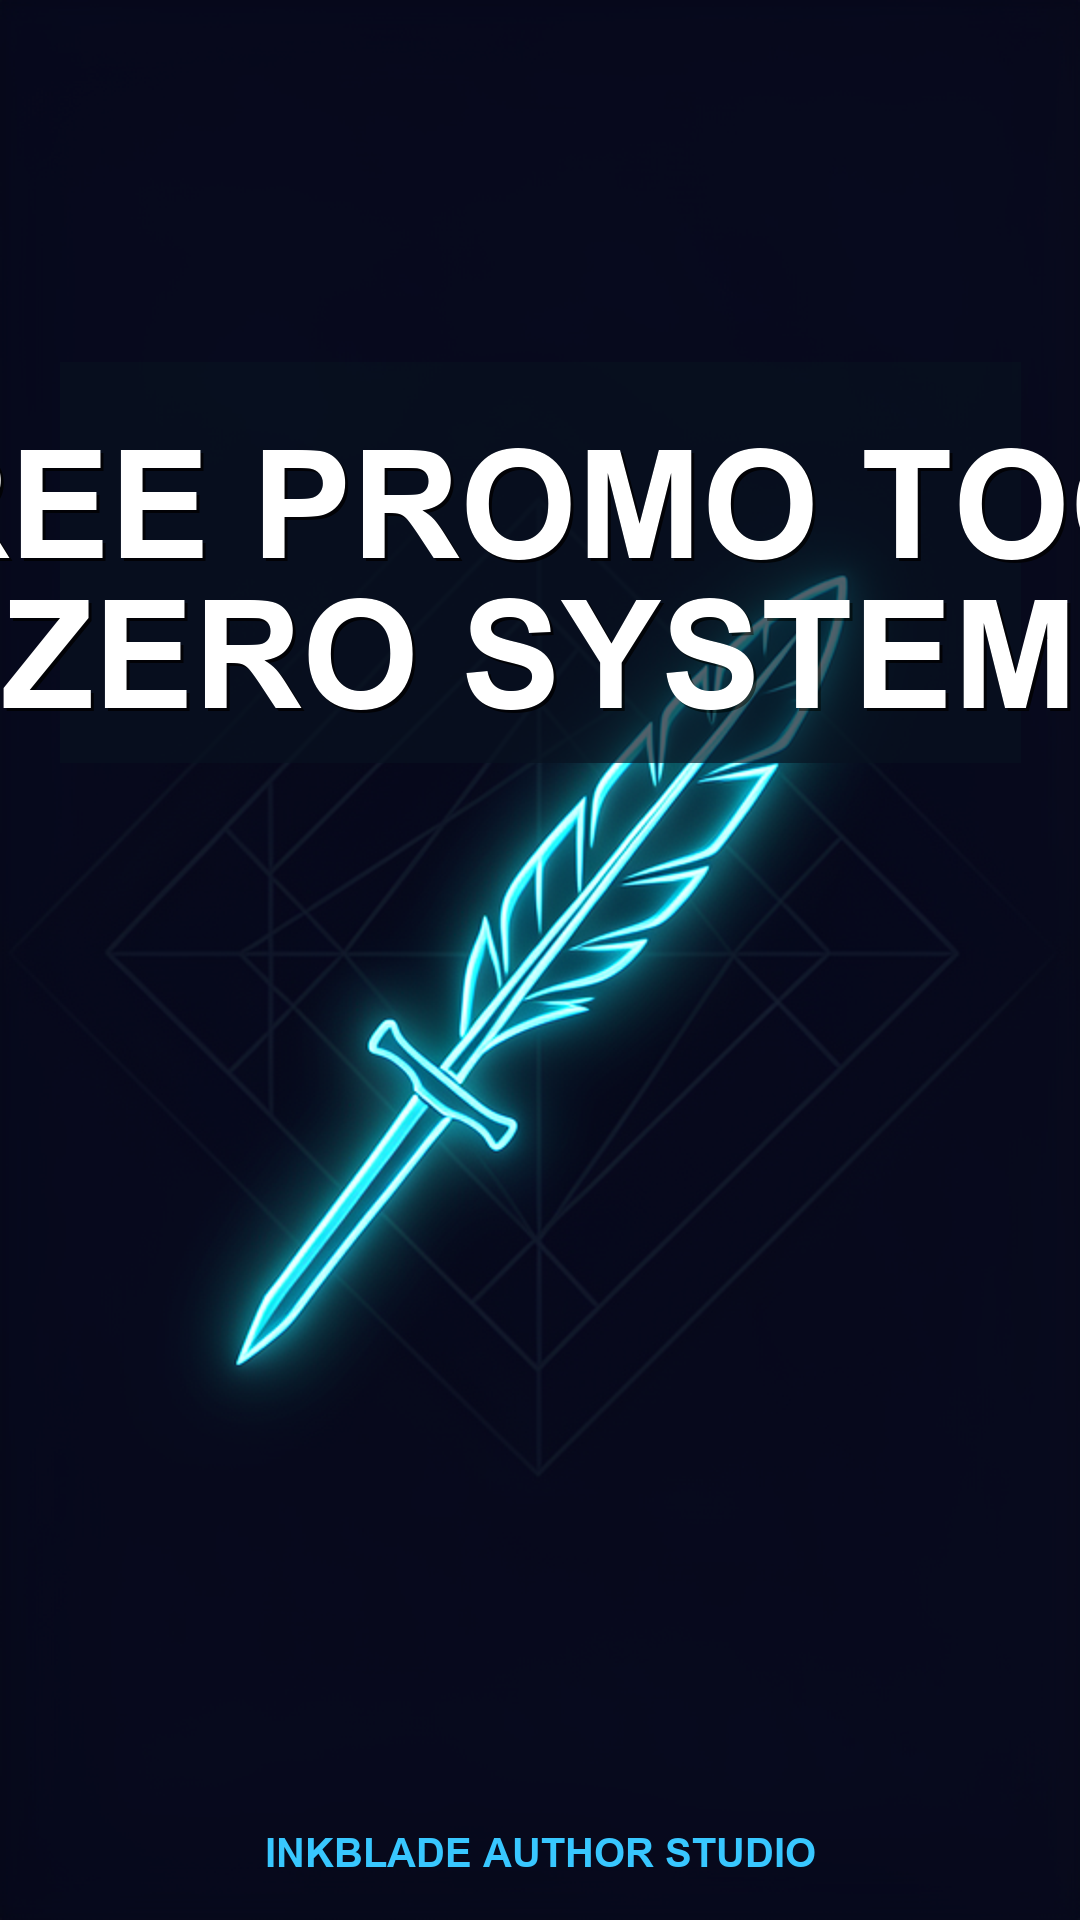
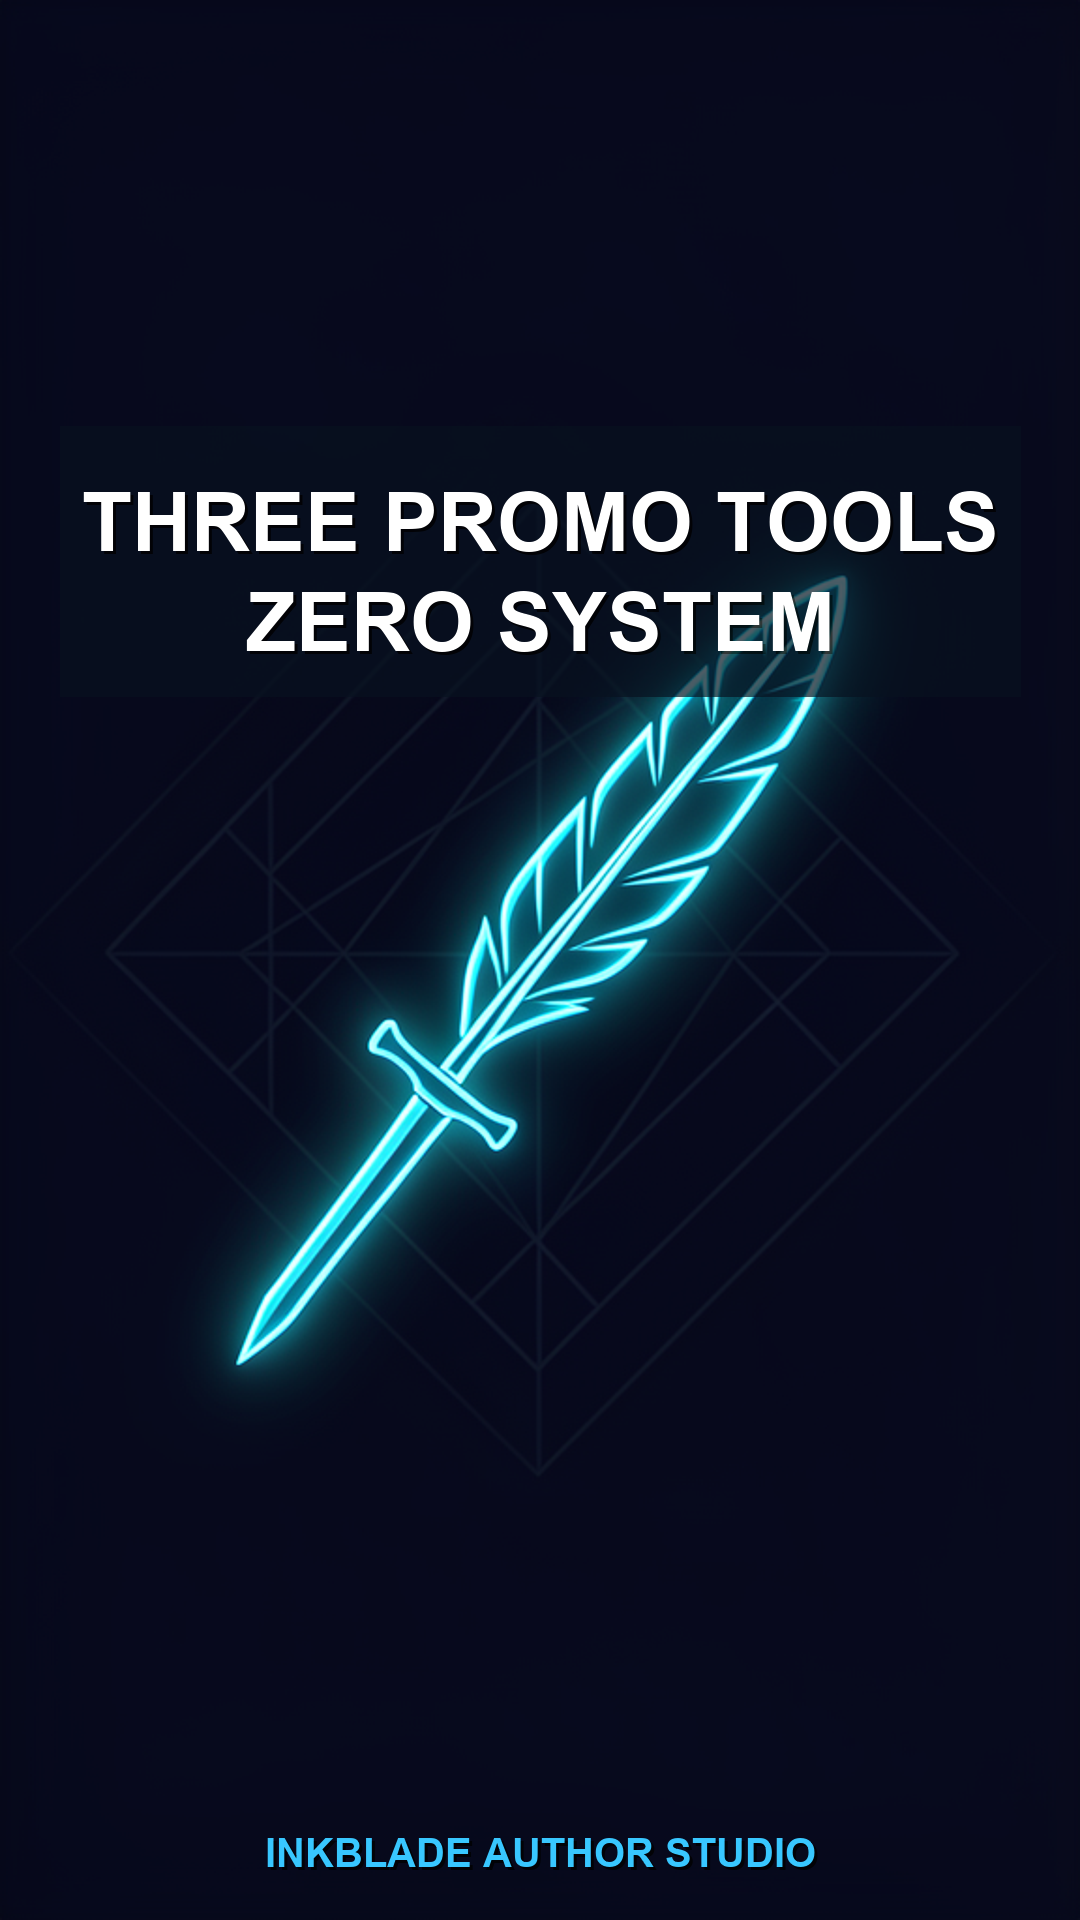
Fix text clipping: hard width-guard in both reel builders (no edge clipping); rebuild 7-20 + assets reels

Changed region(s): [[0.0, 0.2188, 1.0, 0.4062]]

diff --git a/scripts/build_reel_2026-07-20.py b/scripts/build_reel_2026-07-20.py
@@ -1,0 +1,232 @@
+"""Build the 2026-07-20 Inkblade Author Studio reel cover + 12s MP4.
+
+Studio brand only (fantasy AUTHORS). DRAFT-mode asset build, no publishing here.
+Cover: navy + electric-blue sword-quill base with deterministic PIL hook text.
+Reel: Ken Burns zoom + per-beat fade-in captions + edge_tts voiceover (GPU-free).
+"""
+import os
+import subprocess
+import tempfile
+
+from PIL import Image, ImageDraw, ImageFont
+
+BASE = r"C:\Users\David\Documents\Inkblade Author Studio\site\assets\posts\reel-2026-07-20-base.png"
+SITE = r"C:\Users\David\Documents\Inkblade Author Studio\site\assets\posts"
+COVER_PNG = os.path.join(SITE, "reel-2026-07-20.png")
+MP4 = os.path.join(SITE, "reel-2026-07-20.mp4")
+W, H = 1080, 1920
+FPS = 30
+
+NAVY = (7, 17, 31)
+BLUE = (56, 199, 255)
+WHITE = (255, 255, 255)
+
+
+def load_font(size, bold=True):
+    candidates = [
+        r"C:\Windows\Fonts\arialbd.ttf",
+        r"C:\Windows\Fonts\arial.ttf",
+        r"C:\Windows\Fonts\segoeui.ttf",
+    ]
+    for path in candidates:
+        if os.path.exists(path):
+            try:
+                return ImageFont.truetype(path, size)
+            except Exception:
+                continue
+    return ImageFont.load_default()
+
+
+def wrap_text(draw, text, font, max_w):
+    words = text.split()
+    lines, cur = [], ""
+    for w in words:
+        test = (cur + " " + w).strip()
+        if draw.textlength(test, font=font) <= max_w:
+            cur = test
+        else:
+            if cur:
+                lines.append(cur)
+            cur = w
+    if cur:
+        lines.append(cur)
+    return lines
+
+
+def safe_lines(draw, text, size, max_w=W - 120):
+    """Wrap, then shrink font until every line fits max_w. Returns (lines, font)."""
+    font = load_font(size)
+    lines = wrap_text(draw, text, font, max_w)
+    while any(draw.textlength(ln, font=font) > max_w for ln in lines) and size > 24:
+        size -= 4
+        font = load_font(size)
+        lines = wrap_text(draw, text, font, max_w)
+    return lines, font
+
+
+def draw_safe(d, text, cx, y, size, fill, max_w=W - 120, shadow=True):
+    """Draw text centered at cx, wrapped + width-clamped so it NEVER clips."""
+    lines, font = safe_lines(d, text, size, max_w)
+    for ln in lines:
+        w = d.textlength(ln, font=font)
+        x = cx - w / 2
+        if shadow:
+            d.text((x + 3, y + 3), ln, font=font, fill=(0, 0, 0, 200))
+        d.text((x, y), ln, font=font, fill=fill)
+        y += font.size + 12
+    return y
+
+
+def composite_cover(base):
+    img = base.resize((W, H)).convert("RGB")
+    overlay = Image.new("RGBA", (W, H), (0, 0, 0, 0))
+    d = ImageDraw.Draw(overlay)
+    # headline block: render the original 2 lines, each width-guarded, centered as a block
+    lines = ["THREE PROMO TOOLS", "ZERO SYSTEM"]
+    size = 150
+    fnt = load_font(size)
+    # width-guard each line (shrink if needed)
+    guarded = []
+    for ln in lines:
+        while d.textlength(ln, font=fnt) > W - 120 and size > 28:
+            size -= 4
+            fnt = load_font(size)
+        guarded.append(ln)
+    line_h = fnt.size + 18
+    block_h = line_h * len(guarded)
+    # center block in upper-third band (y from 0.14H to 0.55H), clamp inside frame
+    y = max(int(H * 0.16), int(H * 0.30) - block_h // 2)
+    bar_top = y - 50
+    bar_bottom = y + block_h + 20
+    d.rectangle([60, bar_top, W - 60, bar_bottom], fill=(7, 17, 31, 175))
+    yy = y
+    for ln in guarded:
+        w = d.textlength(ln, font=fnt)
+        x = W // 2 - w / 2
+        d.text((x + 3, yy + 3), ln, font=fnt, fill=(0, 0, 0, 200))
+        d.text((x, yy), ln, font=fnt, fill=WHITE)
+        yy += line_h
+    # small brand tag bottom (width-guarded)
+    draw_safe(d, "INKBLADE AUTHOR STUDIO", W // 2, H - 90, 40, BLUE)
+    img = img.convert("RGBA")
+    img = Image.alpha_composite(img, overlay).convert("RGB")
+    return img
+
+
+def kb_zoom(base, t, total):
+    # hook 0-3s: 1.4 -> 1.05 ; beats 3-12s: 1.15 -> 1.7
+    if t < 3.0:
+        z = 1.4 + (1.05 - 1.4) * (t / 3.0)
+    else:
+        p = (t - 3.0) / max(0.001, (total - 3.0))
+        z = 1.15 + (1.7 - 1.15) * min(1.0, p)
+    z = max(1.02, z)
+    zw, zh = int(W / z), int(H / z)
+    left = (W - zw) // 2
+    top = (H - zh) // 2
+    return base.crop((left, top, left + zw, top + zh)).resize((W, H))
+
+
+BEATS = [
+    (0.0, 3.0, ["THREE PROMO TOOLS", "ZERO SYSTEM"], 150, True),
+    (3.0, 6.0, ["You bought the captions,", "the calendar, the promo kit."], 70, False),
+    (6.0, 9.0, ["None connect.", "Every launch starts from zero."], 78, False),
+    (9.0, 12.0, ["Complete Author Vault = $30", "all three in one system."], 70, False),
+    (12.0, 999.0, ["Save this for your next launch.", "Link in bio."], 80, False),
+]
+
+
+def draw_beats(overlay, t, total):
+    d = ImageDraw.Draw(overlay)
+    for (s, e, lines, size, big) in BEATS:
+        if t < s or t >= e:
+            continue
+        age = t - s
+        alpha = int(min(1.0, age / 0.4) * 255)
+        # lower-third readability bar; render each given line, width-guarded
+        fnt = load_font(size)
+        for ln in lines:
+            while d.textlength(ln, font=fnt) > W - 120 and size > 24:
+                size -= 4
+                fnt = load_font(size)
+        line_h = fnt.size + 12
+        block_h = line_h * len(lines)
+        bar_top = int(H * 0.62)
+        bar_bottom = bar_top + block_h + 80
+        d.rectangle([50, bar_top - 40, W - 50, bar_bottom], fill=(7, 17, 31, 175))
+        yy = bar_top
+        for ln in lines:
+            w = d.textlength(ln, font=fnt)
+            x = W // 2 - w / 2
+            d.text((x + 3, yy + 3), ln, font=fnt, fill=(0, 0, 0, int(alpha * 0.6)))
+            d.text((x, yy), ln, font=fnt, fill=WHITE)
+            yy += line_h
+        return
+
+
+def build_video(base, total):
+    frames_dir = tempfile.mkdtemp(prefix="reel20_")
+    n = int(total * FPS)
+    for i in range(n):
+        t = i / FPS
+        frame = kb_zoom(base, t, total).convert("RGBA")
+        overlay = Image.new("RGBA", (W, H), (0, 0, 0, 0))
+        draw_beats(overlay, t, total)
+        frame = Image.alpha_composite(frame, overlay).convert("RGB")
+        frame.save(os.path.join(frames_dir, f"{i:05d}.png"))
+    silent = os.path.join(frames_dir, "silent.mp4")
+    subprocess.run(
+        ["ffmpeg", "-y", "-framerate", str(FPS), "-i", os.path.join(frames_dir, "%05d.png"),
+         "-c:v", "libx264", "-pix_fmt", "yuv420p", "-crf", "19", silent],
+        check=True, stdout=subprocess.DEVNULL, stderr=subprocess.DEVNULL,
+    )
+    return silent
+
+
+def make_tts():
+    import asyncio
+    import edge_tts
+
+    narr = ("You bought the captions, the calendar, and the promo kit. "
+            "None of them connect, so every launch starts from zero. "
+            "The Complete Author Vault puts all three in one $30 system. "
+            "Plan the drop once. Save this for your next launch.")
+    mp3 = tempfile.mktemp(suffix=".mp3")
+    asyncio.run(edge_tts.Communicate(narr, voice="en-US-ChristopherNeural").save(mp3))
+    return mp3
+
+
+def audio_duration(path):
+    out = subprocess.run(
+        ["ffprobe", "-v", "error", "-show_entries", "format=duration",
+         "-of", "default=noprint_wrappers=1:nokey=1", path],
+        capture_output=True, text=True, check=True,
+    ).stdout.strip()
+    return float(out)
+
+
+def main():
+    base = Image.open(BASE).convert("RGB")
+    cover = composite_cover(base)
+    cover.save(COVER_PNG)
+    print("COVER", COVER_PNG, os.path.getsize(COVER_PNG))
+
+    mp3 = make_tts()
+    dur = audio_duration(mp3)
+    total = max(12.0, dur + 0.2)
+    silent = build_video(base, total)
+    padded = tempfile.mktemp(suffix=".mp3")
+    subprocess.run(
+        ["ffmpeg", "-y", "-i", mp3, "-af", "apad", "-t", f"{total:.2f}", padded],
+        check=True, stdout=subprocess.DEVNULL, stderr=subprocess.DEVNULL,
+    )
+    subprocess.run(
+        ["ffmpeg", "-y", "-i", silent, "-i", padded, "-c:v", "copy", "-c:a", "aac",
+         "-shortest", "-movflags", "+faststart", MP4],
+        check=True, stdout=subprocess.DEVNULL, stderr=subprocess.DEVNULL,
+    )
+    print("MP4", MP4, os.path.getsize(MP4))
+
+
+if __name__ == "__main__":
+    main()

diff --git a/scripts/build_reel_assets.py b/scripts/build_reel_assets.py
@@ -96,6 +96,13 @@ def wrap(text, draw, fnt, max_width):
 
 
 def centered(draw, text, y, size, color, max_width=940, spacing=16):
+    # shrink font until every wrapped line fits max_width (never clip)
+    while size > 24:
+        f = font(size)
+        lines = wrap(text, draw, f, max_width)
+        if all(draw.textlength(ln, font=f) <= max_width for ln in lines):
+            break
+        size -= 4
     f = font(size)
     for line in wrap(text, draw, f, max_width):
         w = draw.textlength(line, font=f)